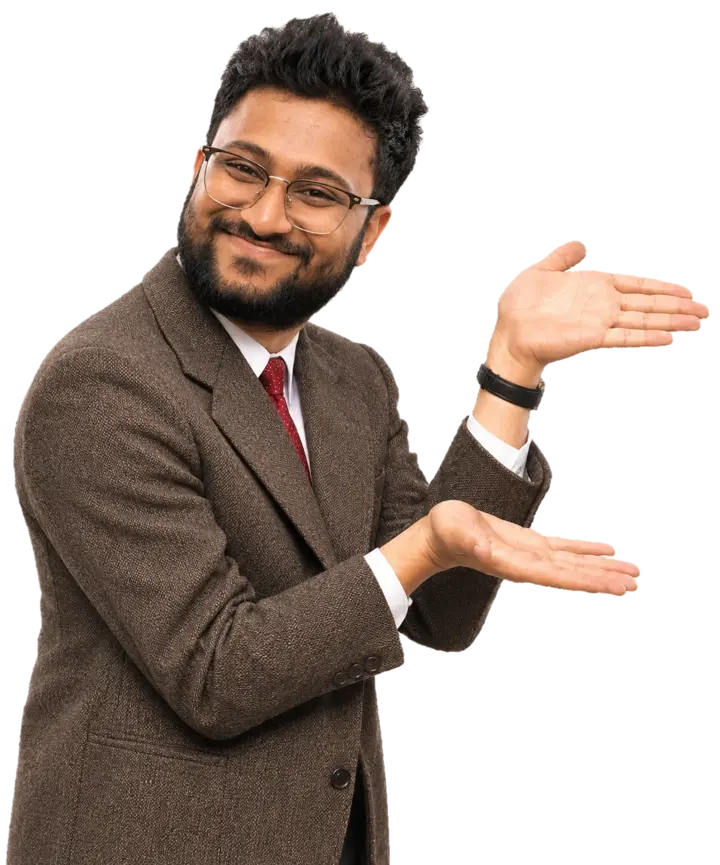
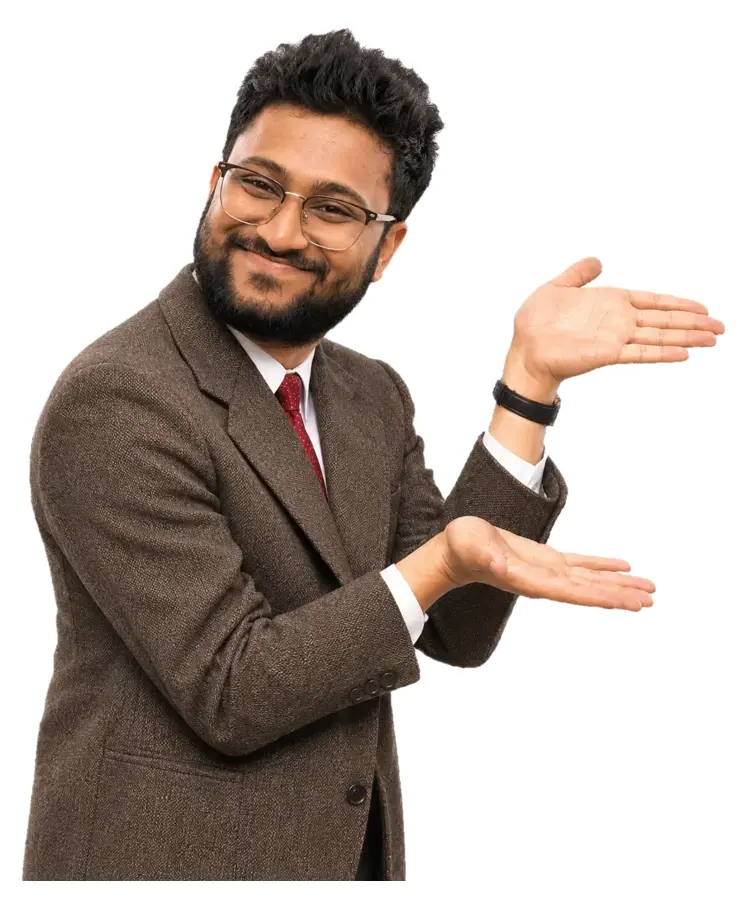
No face bubble on the About button; ta-da photo as a sticker (white outline); sound effects unlock on the first tap anywhere (incl. iPhone)
Claude-Session: https://claude.ai/code/session_01AEksi93ZYTb6ADM4obxdGL

Changed region(s): [[0.0, 0.0, 0.8861, 1.0], [0.7639, 0.2809, 1.0, 0.4058], [0.5194, 0.4058, 0.55, 0.4682]]

diff --git a/lib/sound/notify.ts b/lib/sound/notify.ts
@@ -12,9 +12,13 @@ function context() {
   if (!AC) return null;
   ctx = new AC();
   const wake = () => void ctx?.resume();
-  addEventListener("pointerdown", wake, { capture: true });
-  addEventListener("keydown", wake, { capture: true });
+  // iPhones only unlock sound on touchend/click, not on pointerdown
+  for (const ev of ["pointerdown", "touchend", "click", "keydown"]) addEventListener(ev, wake, { capture: true });
   return ctx;
+}
+/** create the audio context as the site loads, so the visitor's very first tap unlocks it */
+export function warmNotify() {
+  context();
 }
 
 /** one soft bell-like note */
@@ -32,7 +36,16 @@ function note(c: AudioContext, at: number, freq: number, len: number, vol: numbe
 
 export function notifySound(kind: Notify) {
   const c = context();
-  if (!c || c.state !== "running" || document.hidden) return;
+  if (!c || document.hidden) return;
+  // the page may already have had a tap (the browser remembers it): wake the context and play then
+  if (c.state !== "running") {
+    void c.resume().then(() => c.state === "running" && !document.hidden && playNotify(c, kind)).catch(() => {});
+    return;
+  }
+  playNotify(c, kind);
+}
+
+function playNotify(c: AudioContext, kind: Notify) {
   const t = c.currentTime + 0.01;
   if (kind === "ding" || kind === "pop") {
     // a soft work-chat "ba-dum": two warm rising notes with a little shimmer
@@ -311,6 +324,7 @@ export function fineSoundtrack(at: () => number | null): { stop: () => void } {
   };
   const onState = () => tryStart();
   c.addEventListener("statechange", onState);
+  if (c.state !== "running") void c.resume().catch(() => {}); // an earlier tap on the page is enough
   loadBgm().then(tryStart);
   tryStart();
   return {

diff --git a/components/site/home/home.module.css b/components/site/home/home.module.css
@@ -364,17 +364,8 @@
 .browse a { color: #fff; }
 .browse a span { color: rgba(255, 255, 255, 0.5); }
 
-/* the intro's About button: your face pops up above it on hover */
+/* the intro's About button */
 .aboutBtn { position: relative; }
-.face {
-  position: absolute; left: 50%; bottom: calc(100% + 12px); width: 132px; height: 132px; margin-left: -66px; border-radius: 50%; overflow: hidden;
-  border: 4px solid #fff; box-shadow: 0 18px 40px -16px rgba(34, 34, 34, 0.45); background: #eee; pointer-events: none;
-  opacity: 0; transform: translateY(12px) scale(0.6) rotate(-8deg); transform-origin: 50% 100%;
-  transition: opacity 180ms ease, transform 420ms cubic-bezier(0.34, 1.56, 0.64, 1);
-}
-.face img { display: block; width: 100%; height: 100%; object-fit: cover; }
-.aboutBtn:hover .face, .aboutBtn:focus-visible .face { opacity: 1; transform: none; }
-@media (prefers-reduced-motion: reduce) { .face { transition: opacity 160ms ease; transform: none; } }
 
 /* phones: the work scene matches the laptop — colour tiles in a two-column bento */
 .journey[data-mode="touch"] .bentoRow { grid-template-columns: repeat(2, minmax(0, 1fr)); grid-auto-rows: minmax(168px, auto); grid-auto-flow: row dense; }

diff --git a/components/site/MusicToggle.tsx b/components/site/MusicToggle.tsx
@@ -72,8 +72,8 @@ export default function MusicToggle({ hidden = false }: { hidden?: boolean }) {
       gesture = true;
       tryStart();
     };
-    addEventListener("pointerdown", onGesture, { capture: true });
-    addEventListener("keydown", onGesture, { capture: true });
+    const GESTURES = ["pointerdown", "touchend", "click", "keydown"];
+    for (const ev of GESTURES) addEventListener(ev, onGesture, { capture: true });
     const off = onIntroDone(() => {
       introDone = true;
       tryStart();
@@ -81,8 +81,7 @@ export default function MusicToggle({ hidden = false }: { hidden?: boolean }) {
     const vis = () => audio.current && (document.hidden ? audio.current.ctx.suspend() : wanted.current && audio.current.ctx.resume());
     document.addEventListener("visibilitychange", vis);
     return () => {
-      removeEventListener("pointerdown", onGesture, { capture: true });
-      removeEventListener("keydown", onGesture, { capture: true });
+      for (const ev of GESTURES) removeEventListener(ev, onGesture, { capture: true });
       document.removeEventListener("visibilitychange", vis);
       off();
     };

diff --git a/components/site/home/AboutFace.tsx b/components/site/home/AboutFace.tsx
@@ -1,28 +1,11 @@
-"use client";
-
 import Link from "next/link";
-import { useState } from "react";
 import h from "./home.module.css";
 
-/** Where the face photo lives. Drop the file here (a square crop works best). */
-const FACE = "/images/about/face.webp";
-
-/**
- * The intro's About button. On hover (or keyboard focus) a round crop of
- * Nishanth's face pops up above it. If the photo isn't there yet, the button
- * simply works without it.
- */
+/** The intro's About button. */
 export default function AboutFace() {
-  const [ok, setOk] = useState(true);
   return (
     <Link className={`${h.btnSecondary} ${h.aboutBtn}`} href="/about">
       About
-      {ok && (
-        <span className={h.face} aria-hidden="true">
-          {/* eslint-disable-next-line @next/next/no-img-element */}
-          <img src={FACE} alt="" width={132} height={132} onError={() => setOk(false)} />
-        </span>
-      )}
     </Link>
   );
 }

diff --git a/components/site/GlobalWidgets.tsx b/components/site/GlobalWidgets.tsx
@@ -1,7 +1,8 @@
 "use client";
 
 import { usePathname } from "next/navigation";
-import { useSyncExternalStore } from "react";
+import { useEffect, useSyncExternalStore } from "react";
+import { warmNotify } from "@/lib/sound/notify";
 import AskPanel from "./ask/AskPanel";
 import MusicToggle from "./MusicToggle";
 import s from "./site.module.css";
@@ -25,6 +26,8 @@ export default function GlobalWidgets({ face }: { face: string | null }) {
     () => false,
   );
   const hide = path.startsWith("/wall") || onWall;
+  // the sound effects' audio is set up as the site loads, so the first tap anywhere unlocks it
+  useEffect(() => warmNotify(), []);
   return (
     // display: contents keeps the site's colour and type tokens without adding a box
     <div className={s.site} style={{ display: "contents" }}>

diff --git a/components/site/about/Tools.tsx b/components/site/about/Tools.tsx
@@ -60,7 +60,7 @@ export default function Tools() {
   return (
     <div ref={stage} className={a.toolStage}>
       {/* eslint-disable-next-line @next/next/no-img-element */}
-      <img className={a.presenter} data-presenter src="/images/about/tada.webp" alt="Nishanth in a tweed jacket, smiling and presenting his tools with both palms open: ta-da!" width={720} height={865} loading="lazy" />
+      <img className={a.presenter} data-presenter src="/images/about/tada.webp" alt="Nishanth in a tweed jacket, smiling and presenting his tools with both palms open: ta-da!" width={752} height={897} loading="lazy" />
       <div className={a.toolGroups}>
         {about.tools.map((g) => (
           <div key={g.group} className={a.toolGroup}>

diff --git a/components/site/about/about.module.css b/components/site/about/about.module.css
@@ -43,7 +43,7 @@
 .toolStage { display: grid; grid-template-columns: clamp(220px, 24vw, 340px) minmax(0, 1fr); gap: clamp(24px, 4vw, 64px); align-items: start; margin-top: 32px; }
 .presenter {
   width: 100%; height: auto; position: sticky; top: 96px; display: block;
-  filter: drop-shadow(0 30px 40px rgba(30, 25, 20, 0.18));
+  filter: drop-shadow(0 0 1px rgba(30, 25, 20, 0.28)) drop-shadow(0 2px 3px rgba(30, 25, 20, 0.12)) drop-shadow(0 26px 36px rgba(30, 25, 20, 0.2));
   opacity: 0; transform: translateX(-60px) rotate(-4deg); transform-origin: 30% 100%;
   transition: opacity 400ms ease, transform 700ms cubic-bezier(0.34, 1.56, 0.64, 1);
 }

diff --git a/lib/sound/ui.ts b/lib/sound/ui.ts
@@ -24,8 +24,7 @@ function context() {
   if (!AC) return null;
   ctx = new AC();
   const resume = () => void ctx?.resume();
-  addEventListener("pointerdown", resume, { capture: true });
-  addEventListener("keydown", resume, { capture: true });
+  for (const ev of ["pointerdown", "touchend", "click", "keydown"]) addEventListener(ev, resume, { capture: true });
   return ctx;
 }
 
